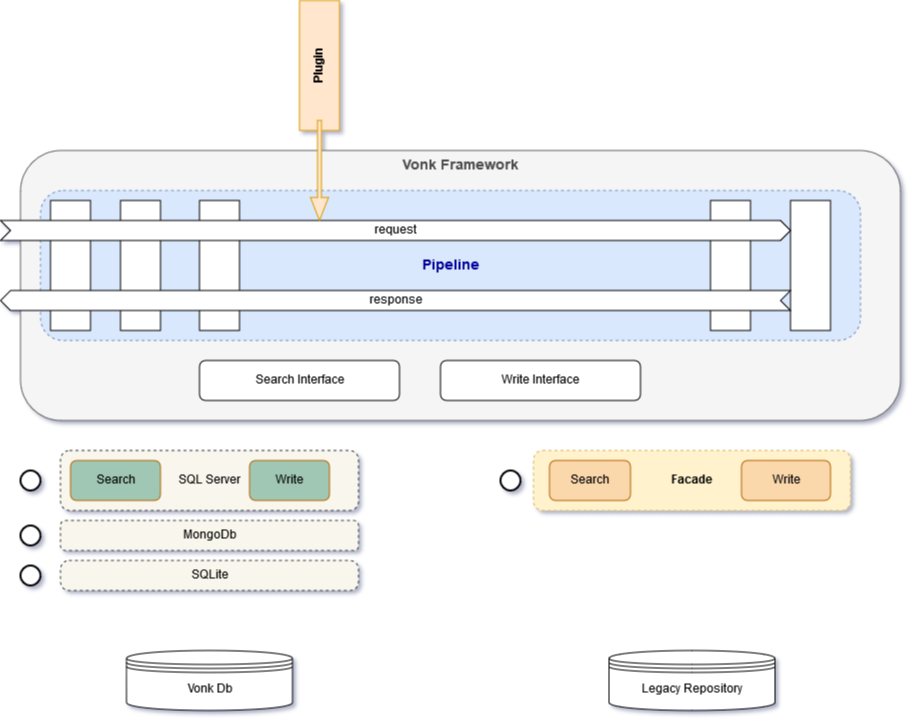
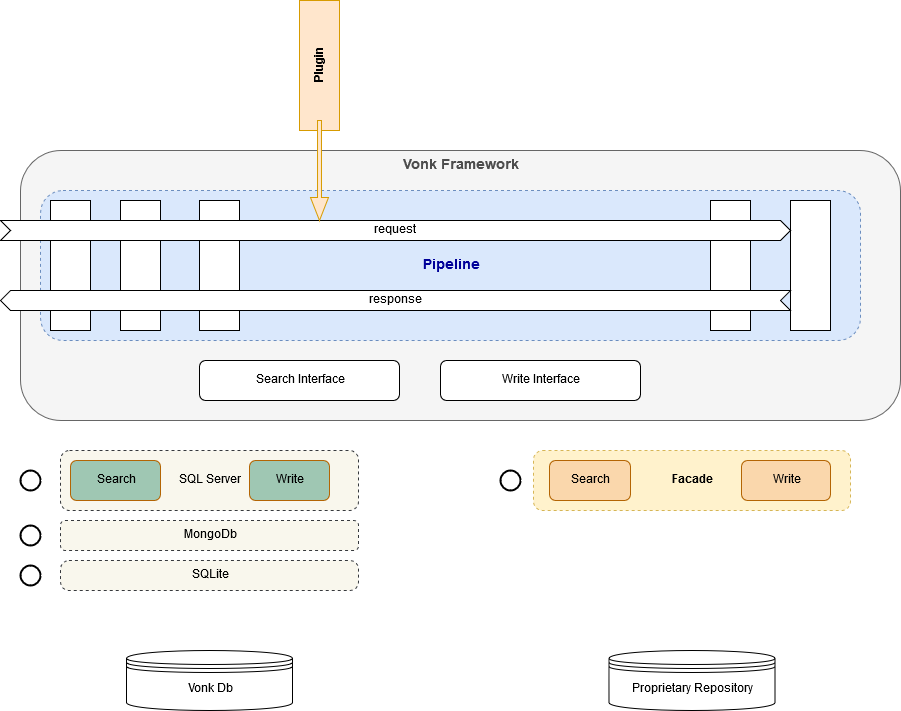
vonk: 'legacy system' -> 'proprietary system'

diff --git a/vonk/overview.rst b/vonk/overview.rst
@@ -6,7 +6,7 @@ Overview of Vonk FHIR Server, Plugins and Facades
 Framework
 ---------
 
-Vonk is not just a FHIR Server, it is a processing pipeline for handling standard and custom FHIR requests. :ref:`Vonk FHIR Server <vonk_overview_server>` consists of this pipeline filled with processors to handle the interactions defined in the FHIR RESTful API. With :ref:`vonk_overview_plugins` you can add your own processors to the framework to perform custom operations, or fill in cross-cutting concerns for your business. A :ref:`Facade <vonk_overview_facades>` is a type of plugin that provides a data access layer for an existing data repository (e.g. a legacy system). This image sums it all up:
+Vonk is not just a FHIR Server, it is a processing pipeline for handling standard and custom FHIR requests. :ref:`Vonk FHIR Server <vonk_overview_server>` consists of this pipeline filled with processors to handle the interactions defined in the FHIR RESTful API. With :ref:`vonk_overview_plugins` you can add your own processors to the framework to perform custom operations, or fill in cross-cutting concerns for your business. A :ref:`Facade <vonk_overview_facades>` is a type of plugin that provides a data access layer for an existing data repository (e.g. a proprietary system). This image sums it all up:
 
 .. image:: ./images/vonk_framework.png
   :align: center
@@ -79,7 +79,7 @@ View the `session on Plugins <https://www.youtube.com/watch?v=odYaOM19XXc>`_ fro
 Facades
 -------
 
-A Facade is the Vonk FHIR processing pipeline working on an existing data repository. That repository could be the database of legacy system, some API of an existing system or a whole Clinical Data Repository specifically created to open up data through a FHIR API.
+A Facade is the Vonk FHIR processing pipeline working on an existing data repository. That repository could be the database of proprietary system, some API of an existing system or a whole Clinical Data Repository specifically created to open up data through a FHIR API.
 
 The implementation of a Facade is a special type of plugin that registers services to access the existing data repository. By building the data access layer you leverage all of the FHIR processing in Vonk, connected to your repository. Thus creating a FHIR RESTful API for that repository with the least amount of work.
 
